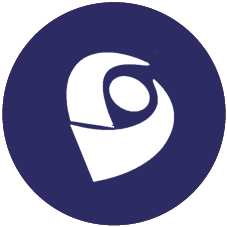
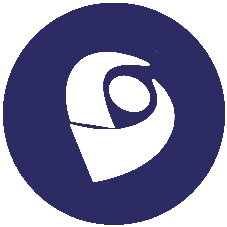
several modifications

diff --git a/publications.html b/publications.html
@@ -17,10 +17,11 @@
 
 	<p style="margin-top:40px;"> Links: </p>
         <p>
-          <a href="https://orcid.org/0000-0001-5687-8603"><img src="/assets/images/orcid.jpg" alt="orcid icon" style="width:30px;height:30px;border:5;"></a> 
-	  <a href="https://scholar.google.com/citations?user=kIUsR28AAAAJ&hl=pt-BR"><img src="/assets/images/googleacademico.png" alt="google academico icon" style="width:30px;height:30px;border:5;"></a>
-  	  <a href="http://lattes.cnpq.br/6336353192848542"><img src="/assets/images/lattes.png" alt="lattes icon" style="width:30px;height:30px;border:5;"></a>
-          <a href="https://publons.com/researcher/3260975/johnatan-mucelini/"><img src="/assets/images/publons.png" alt="publons icon" style="width:30px;height:30px;border:5;"></a>
+          <a href="https://orcid.org/0000-0001-5687-8603"><img src="/assets/images/orcid_bw.png" alt="orcid icon" style="width:30px;height:30px;border:5;"></a> 
+	  <a href="https://scholar.google.com/citations?user=kIUsR28AAAAJ&hl=pt-BR"><img src="/assets/images/googleacademico_bw.png" alt="google academico icon" style="width:30px;height:30px;border:5;"></a>
+  	  <a href="http://lattes.cnpq.br/6336353192848542"><img src="/assets/images/lattes_bw.png" alt="lattes icon" style="width:30px;height:30px;border:5;"></a>
+          <a href="https://publons.com/researcher/3260975/johnatan-mucelini/"><img src="/assets/images/publons_bw.png" alt="publons icon" style="width:30px;height:30px;border:5;"></a>
+	  <a href="https://github.com/johnatanmucelini"><img src="/assets/images/github_bw.png" alt="github icon" style="width:30px;height:30px;border:5;"></a>
         </p>
       </div>
       <div class="right">
@@ -32,23 +33,30 @@
   
     <a href="/researches.html" class="title">Researches</a> &nbsp &nbsp
   
-    <a href="/cv.html" class="title">CV (pdf)</a> &nbsp &nbsp
+    <a href="/cv.html" class="title">CV</a> &nbsp &nbsp
   
-    <a href="/MyRenderings.html" class="title">My Renderings</a> &nbsp &nbsp
+    <a href="/MyRenderings.html" class="title">Renderings</a> &nbsp &nbsp
+  
+    <a href="/codes.html" class="title">Codes</a> &nbsp &nbsp
   
 </nav>
 
         <h2> Publications </h2>
 
-<!--<ul style="list-style-type:disc;">-->
 <ul>
-	<li> Machine Learning Prediction of Nine Molecular Properties Based on the SMILES Representation of the QM9 Quantum-Chemistry Dataset. <em>The Journal of Physical Chemistry A</em>, <strong>2020</strong>, 124(47), 9854-9866. DOI: <a href="https://doi.org/10.1021/acs.jpca.0c05969">10.1021/acs.jpca.0c05969</a> </li>
+	<li> Correlation-Based Framework for Extraction of Insights from Quantum Chemistry Databases: Applications for Nanoclusters. <em>Journal of Chemical Information and Modeling</em>, <strong>2021</strong>, 61 (3), 1125-1135. DOI: <a href="https://doi.org/10.1021/acs.jcim.0c01267">10.1021/acs.jcim.0c01267</a> </li>
+
+	<li> Machine Learning Prediction of Nine Molecular Properties Based on the SMILES Representation of the QM9 Quantum-Chemistry Dataset. <em>The Journal of Physical Chemistry A</em>, <strong>2020</strong>, 124 (47), 9854-9866. DOI: <a href="https://doi.org/10.1021/acs.jpca.0c05969">10.1021/acs.jpca.0c05969</a> </li>
+
 	<li> Methane dehydrogenation on 3<em>d</em> 13-atom transition-metal clusters: A density functional theory investigation combined with Spearman rank correlation analysis. <em>Fuel</em>, <strong>2020</strong>, 275, 117790. DOI: <a href="https://doi.org/10.1016/j.fuel.2020.117790">10.1016/j.fuel.2020.117790</a> </li>
+
 	<li> Ab Initio Insights Into the Formation Mechanisms of 55-Atom Pt-Based Core-Shell Nanoalloys. <em>The Journal of Physical Chemistry</em>, <strong>2020</strong>, 124, 1, 1158-1164. DOI: <a href="https://doi.org/10.1021/acs.jpcc.9b09561">10.1021/acs.jpcc.9b09561</a> </li>
-	<!--<p> Co-author -- I contributed to this work with two key points. First, employing a <strong>Data Mining</strong> procedure, which I developed, that statistically showed the main features that drive PtTM nanoalloys stability with clear trends. Second, I helped build up the explanations of those features trends base on intuitive properties of the atoms in the alloy, such as the atomic radii, surface energy, and electronegativity.</p>-->
+
+<!--<p> Co-author -- I contributed to this work with two key points. First, employing a <strong>Data Mining</strong> procedure, which I developed, that statistically showed the main features that drive PtTM nanoalloys stability with clear trends. Second, I helped build up the explanations of those features trends base on intuitive properties of the atoms in the alloy, such as the atomic radii, surface energy, and electronegativity.</p>-->
 
 	<li> Ab initio insights into the structural, energetic, electronic, and stability properties of mixed Ce<sub>n</sub>Zr<sub>15-n</sub>O<sub>30</sub> nanoclusters, <em>Physical Chemistry Chemical Physics</em>, <strong>2019</strong>, 21, 26637-26646. DOI: <a href="http://dx.doi.org/10.1039/C9CP04762J">10.1039/C9CP04762J</a> </li>
-	<!--<p> Co-author -- My main contribution in this work were a <strong>Data Mining</strong> analysis, which I developed. That analysis make clear that the main important feature that stabilize this nanocluster is the presence of Zr atom less exposed to the surface.</p>-->
+
+<!--<p> Co-author -- My main contribution in this work were a <strong>Data Mining</strong> analysis, which I developed. That analysis make clear that the main important feature that stabilize this nanocluster is the presence of Zr atom less exposed to the surface.</p>-->
 
 	<li> Understanding the interplay between π-π and cation-π interactions in [janusene-Ag]<sup>+</sup> host-guest systems: a computational approach, <em>Dalton Transactions</em>, <strong>2019</strong>, 48, 13281-13292. DOI: <a href="http://dx.doi.org/10.1039/C9DT02307K">10.1039/C9DT02307K</a> </li>
 
@@ -56,7 +64,7 @@
 
 	<li> From Bulk CeO<sub>2</sub> to Transition-Metal Clusters Supported on the CeO<sub>2</sub>(111) Surface: A Critical Discussion. In book: <em>Encyclopedia of Interfacial Chemistry, Surface Science and Electrochemistry</em>, <strong>2018</strong>, 452-459. DOI: <a href="https://doi.org/10.1016/B978-0-12-409547-2.14196-4">10.1016/B978-0-12-409547-2.14196-4</a> </li>
 
-<ul>
+</ul>
 
 
       </div>

diff --git a/researches.html b/researches.html
@@ -17,10 +17,11 @@
 
 	<p style="margin-top:40px;"> Links: </p>
         <p>
-          <a href="https://orcid.org/0000-0001-5687-8603"><img src="/assets/images/orcid.jpg" alt="orcid icon" style="width:30px;height:30px;border:5;"></a> 
-	  <a href="https://scholar.google.com/citations?user=kIUsR28AAAAJ&hl=pt-BR"><img src="/assets/images/googleacademico.png" alt="google academico icon" style="width:30px;height:30px;border:5;"></a>
-  	  <a href="http://lattes.cnpq.br/6336353192848542"><img src="/assets/images/lattes.png" alt="lattes icon" style="width:30px;height:30px;border:5;"></a>
-          <a href="https://publons.com/researcher/3260975/johnatan-mucelini/"><img src="/assets/images/publons.png" alt="publons icon" style="width:30px;height:30px;border:5;"></a>
+          <a href="https://orcid.org/0000-0001-5687-8603"><img src="/assets/images/orcid_bw.png" alt="orcid icon" style="width:30px;height:30px;border:5;"></a> 
+	  <a href="https://scholar.google.com/citations?user=kIUsR28AAAAJ&hl=pt-BR"><img src="/assets/images/googleacademico_bw.png" alt="google academico icon" style="width:30px;height:30px;border:5;"></a>
+  	  <a href="http://lattes.cnpq.br/6336353192848542"><img src="/assets/images/lattes_bw.png" alt="lattes icon" style="width:30px;height:30px;border:5;"></a>
+          <a href="https://publons.com/researcher/3260975/johnatan-mucelini/"><img src="/assets/images/publons_bw.png" alt="publons icon" style="width:30px;height:30px;border:5;"></a>
+	  <a href="https://github.com/johnatanmucelini"><img src="/assets/images/github_bw.png" alt="github icon" style="width:30px;height:30px;border:5;"></a>
         </p>
       </div>
       <div class="right">
@@ -32,9 +33,11 @@
   
     <a href="/researches.html" class="title">Researches</a> &nbsp &nbsp
   
-    <a href="/cv.html" class="title">CV (pdf)</a> &nbsp &nbsp
+    <a href="/cv.html" class="title">CV</a> &nbsp &nbsp
   
-    <a href="/MyRenderings.html" class="title">My Renderings</a> &nbsp &nbsp
+    <a href="/MyRenderings.html" class="title">Renderings</a> &nbsp &nbsp
+  
+    <a href="/codes.html" class="title">Codes</a> &nbsp &nbsp
   
 </nav>
 
@@ -43,13 +46,16 @@
 <p> Now I am working in three researches lines. Below I have described each of them: </p>
 
 <ul>
-  <li> I am developing a Data Mining framework (python implementation) that allows the user to deeply analyze the relationship between the atomic environment and some property of interest, such as the cohesive energy (related to stability) and the band bag (important optical property). An important point of this methodology is that it describes the atomic systems in terms of physical meaningful features. This work was employed in three papers until now (<a href="https://doi.org/10.1021/acs.jpcc.9b09561">10.1021/acs.jpcc.9b09561</a>, <a href="http://dx.doi.org/10.1039/C9CP04762J">10.1039/C9CP04762J</a>, and <a href="https://doi.org/10.1016/j.fuel.2020.117790">10.1016/j.fuel.2020.117790</a>). Right now, we are writing a paper that will address this methodology in more detail.
+	<li> 
+		I am developing a <em>data mining framework</em> (a python module called <a href="https://github.com/johnatanmucelini/quandarium">quandarium</a>) that allows the user to deeply analyze the relationship between the atomic environment and some property of interest, such as the cohesive energy (related to stability) and the band bag (important optical property). An important point of this methodology is that it describes the atomic systems in terms of physical meaningful features. This work was employed in three papers until now (<a href="https://doi.org/10.1021/acs.jpcc.9b09561">10.1021/acs.jpcc.9b09561</a>, <a href="http://dx.doi.org/10.1039/C9CP04762J">10.1039/C9CP04762J</a>, and <a href="https://doi.org/10.1016/j.fuel.2020.117790">10.1016/j.fuel.2020.117790</a>). I addressed the methodology in detail in <a href="https://doi.org/10.1021/acs.jcim.0c01267">this article</a>: 
+		<p> 
+			<a href="https://doi.org/10.1021/acs.jcim.0c01267"><img src="/assets/images/data_minig_paper.png" alt="data_minig_paper" style="width:600px;height:514;"></a> 
+		</p>
+	</li>
 
-  <p> <iframe width="493" height="277" src="https://www.youtube.com/embed/-W0eadx0Z08" frameborder="0" allow="accelerometer; autoplay; encrypted-media; gyroscope; picture-in-picture" allowfullscreen></iframe> </p> </li>
-
-  <li> I am collaborating with two Machine Learning (ML) experts (<a href="https://scholar.google.com/citations?user=lZ0ASREAAAAJ&hl=en">Prof. Dr. Ronaldo C. Prati</a> and <a href="https://scholar.google.com/citations?user=kQXxkc4AAAAJ&hl=en">Prof. Dr. Marcos G. Quiles</a>) in two projects related to applications of ML algorithms in quantum chemistry datasets: “Machine learning prediction of nine molecular properties based on the SMILES representation of the QM9 dataset” and “Quantifying the bias-variance decomposition in materials science data set”. </li>
-
-  <li> I am co-supervising the Undergraduate Student in Chemistry Mariana Candido Gallego (Supervised by Prof. Dr. Juarez Lopes Ferreira Da Silva in the São Carlos Institute of Chemistry - University of São Paulo) in her scientific initiation program. She is performing an investigation of the structural, energetic, and optical properties of ABX 3 perovskites for solar cell applications, employ first-principles calculations. </li>
+	<li> 
+		I am also working on a large theoretical investigation of <em>transition metal nanoclusters</em>, where I will seek the relationship between TM element, charge, and size of the clusters and their properties.
+	</li>
 </ul>
 
 

diff --git a/codes.html b/codes.html
@@ -1,0 +1,92 @@
+<!doctype html>
+<html>
+  <head>
+    <meta charset="utf-8">
+    <meta name="viewport" content="width=device-width, initial-scale=1.0">
+
+    <title>Codes</title>
+    <link rel="stylesheet" href="/assets/css/styles.css">
+  </head>
+  <body>
+    <div class="split">
+      <div class="left">
+        <img src="/assets/images/me.jpg" alt="Me" width="180">
+        <p>Johnatan Mucelini</p>
+	<p>PhD student in </p>
+	<p><a href="https://www.facebook.com/QTNano/">QTNano group</a></p>
+
+	<p style="margin-top:40px;"> Links: </p>
+        <p>
+          <a href="https://orcid.org/0000-0001-5687-8603"><img src="/assets/images/orcid_bw.png" alt="orcid icon" style="width:30px;height:30px;border:5;"></a> 
+	  <a href="https://scholar.google.com/citations?user=kIUsR28AAAAJ&hl=pt-BR"><img src="/assets/images/googleacademico_bw.png" alt="google academico icon" style="width:30px;height:30px;border:5;"></a>
+  	  <a href="http://lattes.cnpq.br/6336353192848542"><img src="/assets/images/lattes_bw.png" alt="lattes icon" style="width:30px;height:30px;border:5;"></a>
+          <a href="https://publons.com/researcher/3260975/johnatan-mucelini/"><img src="/assets/images/publons_bw.png" alt="publons icon" style="width:30px;height:30px;border:5;"></a>
+	  <a href="https://github.com/johnatanmucelini"><img src="/assets/images/github_bw.png" alt="github icon" style="width:30px;height:30px;border:5;"></a>
+        </p>
+      </div>
+      <div class="right">
+        <nav style="margin: 20px 0 0 ;padding: 10px 0;" >
+  
+    <a href="/" class="title">Johnatan</a> &nbsp &nbsp
+  
+    <a href="/publications.html" class="title">Publications</a> &nbsp &nbsp
+  
+    <a href="/researches.html" class="title">Researches</a> &nbsp &nbsp
+  
+    <a href="/cv.html" class="title">CV</a> &nbsp &nbsp
+  
+    <a href="/MyRenderings.html" class="title">Renderings</a> &nbsp &nbsp
+  
+    <a href="/codes.html" class="title">Codes</a> &nbsp &nbsp
+  
+</nav>
+
+        <h2> Codes </h2>
+
+<p> Some codes that I developed: </p>
+
+<ul>
+	<li> 
+		<h3>Surface Atoms Analysis</h3>
+
+		<p><a href="https://github.com/johnatanmucelini/Surface-Atoms-Analysis">This pytho script</a> analyzes which atoms of a molecule (in xyz file, for instance) are exposed to the vacuum and is exposed area.</p>
+
+		<p><a href="https://github.com/johnatanmucelini/Surface-Atoms-Analysis"><img src="https://raw.githubusercontent.com/johnatanmucelini/surface_analysis_standalone/master/figure.png?token=AF3ZDJ3EMVHYIY3HY4G5773AQCTUS" alt="surface_analysis" style="width:600px;height:514;"></a></p>
+                
+		<p> The atoms exposed to the vacuum could be considered <em>surface atoms</em> and often play important roles in the physical-chemical properties of small clusters/nanoclusters/nanostructures. I strongly recomend this analysis for the investigations of structures with more than 20 atoms. </p>
+
+		<p> For a detailed description of the methodology, I suggest the Section V of <a href="https://pubs.acs.org/doi/suppl/10.1021/acs.jpcc.9b09561/suppl_file/jp9b09561_si_001.pdf">this document</a>.</p>
+	</li>
+
+	<li> 
+		<h3> Effective Coordination Number </h3>
+
+		<p><a href="https://github.com/johnatanmucelini/Effective-Coordination-Number">This python script</a> calculates the effective coordination number and average bond distance from almost any atomic structure file type. It work with any atomic structuresfile readble by ase.io.read(), including structures with periodic boundary conditions.</p>
+
+		<p>See more in <a href="https://doi.org/10.1063/1.3533422">this reference</a>.</p>
+
+
+	</li>
+
+	<li> 
+		<h3> Quandarium </h3>
+
+		<p> A python package that present several tools to deal with Quantum Chemistry (QC) data of molecular systems (non-periodic):</p>
+
+		<ul>
+			<li> Extraction of data from QC calculations;</li>
+                        <li> Structural analysis, such as effective coordination bonds and surface atoms analysis (see below);</li>
+                        <li> AtoMF (Atomic to Molecular Featurization) (see more);</li>
+                        <li> Correlation and correlation significance analysis with bootstrap approaches.</li>
+		</ul>
+
+		<p> <a href="https://github.com/johnatanmucelini/Quandarium">The version presented here</a> is an old version of quandarium. I am developing the 1.0.0 version and I will release it soon together with more information about quandarium.</p>
+
+	</li>
+</ul>
+
+
+      </div>
+    </div>
+  </body>
+</html>

diff --git a/cv.html b/cv.html
@@ -17,10 +17,11 @@
 
 	<p style="margin-top:40px;"> Links: </p>
         <p>
-          <a href="https://orcid.org/0000-0001-5687-8603"><img src="/assets/images/orcid.jpg" alt="orcid icon" style="width:30px;height:30px;border:5;"></a> 
-	  <a href="https://scholar.google.com/citations?user=kIUsR28AAAAJ&hl=pt-BR"><img src="/assets/images/googleacademico.png" alt="google academico icon" style="width:30px;height:30px;border:5;"></a>
-  	  <a href="http://lattes.cnpq.br/6336353192848542"><img src="/assets/images/lattes.png" alt="lattes icon" style="width:30px;height:30px;border:5;"></a>
-          <a href="https://publons.com/researcher/3260975/johnatan-mucelini/"><img src="/assets/images/publons.png" alt="publons icon" style="width:30px;height:30px;border:5;"></a>
+          <a href="https://orcid.org/0000-0001-5687-8603"><img src="/assets/images/orcid_bw.png" alt="orcid icon" style="width:30px;height:30px;border:5;"></a> 
+	  <a href="https://scholar.google.com/citations?user=kIUsR28AAAAJ&hl=pt-BR"><img src="/assets/images/googleacademico_bw.png" alt="google academico icon" style="width:30px;height:30px;border:5;"></a>
+  	  <a href="http://lattes.cnpq.br/6336353192848542"><img src="/assets/images/lattes_bw.png" alt="lattes icon" style="width:30px;height:30px;border:5;"></a>
+          <a href="https://publons.com/researcher/3260975/johnatan-mucelini/"><img src="/assets/images/publons_bw.png" alt="publons icon" style="width:30px;height:30px;border:5;"></a>
+	  <a href="https://github.com/johnatanmucelini"><img src="/assets/images/github_bw.png" alt="github icon" style="width:30px;height:30px;border:5;"></a>
         </p>
       </div>
       <div class="right">
@@ -32,9 +33,11 @@
   
     <a href="/researches.html" class="title">Researches</a> &nbsp &nbsp
   
-    <a href="/cv.html" class="title">CV (pdf)</a> &nbsp &nbsp
+    <a href="/cv.html" class="title">CV</a> &nbsp &nbsp
   
-    <a href="/MyRenderings.html" class="title">My Renderings</a> &nbsp &nbsp
+    <a href="/MyRenderings.html" class="title">Renderings</a> &nbsp &nbsp
+  
+    <a href="/codes.html" class="title">Codes</a> &nbsp &nbsp
   
 </nav>
 
@@ -45,6 +48,7 @@
 <a href="/assets/images/cv_2020_03_09.pdf" download="johnatan_mucelini_cv">
   Link to Download
 </a> 
+(March 2020)
 
 
       </div>

diff --git a/2019/11/29/ECN.html b/2019/11/29/ECN.html
@@ -17,10 +17,11 @@
 
 	<p style="margin-top:40px;"> Links: </p>
         <p>
-          <a href="https://orcid.org/0000-0001-5687-8603"><img src="/assets/images/orcid.jpg" alt="orcid icon" style="width:30px;height:30px;border:5;"></a> 
-	  <a href="https://scholar.google.com/citations?user=kIUsR28AAAAJ&hl=pt-BR"><img src="/assets/images/googleacademico.png" alt="google academico icon" style="width:30px;height:30px;border:5;"></a>
-  	  <a href="http://lattes.cnpq.br/6336353192848542"><img src="/assets/images/lattes.png" alt="lattes icon" style="width:30px;height:30px;border:5;"></a>
-          <a href="https://publons.com/researcher/3260975/johnatan-mucelini/"><img src="/assets/images/publons.png" alt="publons icon" style="width:30px;height:30px;border:5;"></a>
+          <a href="https://orcid.org/0000-0001-5687-8603"><img src="/assets/images/orcid_bw.png" alt="orcid icon" style="width:30px;height:30px;border:5;"></a> 
+	  <a href="https://scholar.google.com/citations?user=kIUsR28AAAAJ&hl=pt-BR"><img src="/assets/images/googleacademico_bw.png" alt="google academico icon" style="width:30px;height:30px;border:5;"></a>
+  	  <a href="http://lattes.cnpq.br/6336353192848542"><img src="/assets/images/lattes_bw.png" alt="lattes icon" style="width:30px;height:30px;border:5;"></a>
+          <a href="https://publons.com/researcher/3260975/johnatan-mucelini/"><img src="/assets/images/publons_bw.png" alt="publons icon" style="width:30px;height:30px;border:5;"></a>
+	  <a href="https://github.com/johnatanmucelini"><img src="/assets/images/github_bw.png" alt="github icon" style="width:30px;height:30px;border:5;"></a>
         </p>
       </div>
       <div class="right">
@@ -32,9 +33,11 @@
   
     <a href="/researches.html" class="title">Researches</a> &nbsp &nbsp
   
-    <a href="/cv.html" class="title">CV (pdf)</a> &nbsp &nbsp
+    <a href="/cv.html" class="title">CV</a> &nbsp &nbsp
   
-    <a href="/MyRenderings.html" class="title">My Renderings</a> &nbsp &nbsp
+    <a href="/MyRenderings.html" class="title">Renderings</a> &nbsp &nbsp
+  
+    <a href="/codes.html" class="title">Codes</a> &nbsp &nbsp
   
 </nav>
 

diff --git a/MyRenderings.html b/MyRenderings.html
@@ -17,10 +17,11 @@
 
 	<p style="margin-top:40px;"> Links: </p>
         <p>
-          <a href="https://orcid.org/0000-0001-5687-8603"><img src="/assets/images/orcid.jpg" alt="orcid icon" style="width:30px;height:30px;border:5;"></a> 
-	  <a href="https://scholar.google.com/citations?user=kIUsR28AAAAJ&hl=pt-BR"><img src="/assets/images/googleacademico.png" alt="google academico icon" style="width:30px;height:30px;border:5;"></a>
-  	  <a href="http://lattes.cnpq.br/6336353192848542"><img src="/assets/images/lattes.png" alt="lattes icon" style="width:30px;height:30px;border:5;"></a>
-          <a href="https://publons.com/researcher/3260975/johnatan-mucelini/"><img src="/assets/images/publons.png" alt="publons icon" style="width:30px;height:30px;border:5;"></a>
+          <a href="https://orcid.org/0000-0001-5687-8603"><img src="/assets/images/orcid_bw.png" alt="orcid icon" style="width:30px;height:30px;border:5;"></a> 
+	  <a href="https://scholar.google.com/citations?user=kIUsR28AAAAJ&hl=pt-BR"><img src="/assets/images/googleacademico_bw.png" alt="google academico icon" style="width:30px;height:30px;border:5;"></a>
+  	  <a href="http://lattes.cnpq.br/6336353192848542"><img src="/assets/images/lattes_bw.png" alt="lattes icon" style="width:30px;height:30px;border:5;"></a>
+          <a href="https://publons.com/researcher/3260975/johnatan-mucelini/"><img src="/assets/images/publons_bw.png" alt="publons icon" style="width:30px;height:30px;border:5;"></a>
+	  <a href="https://github.com/johnatanmucelini"><img src="/assets/images/github_bw.png" alt="github icon" style="width:30px;height:30px;border:5;"></a>
         </p>
       </div>
       <div class="right">
@@ -32,9 +33,11 @@
   
     <a href="/researches.html" class="title">Researches</a> &nbsp &nbsp
   
-    <a href="/cv.html" class="title">CV (pdf)</a> &nbsp &nbsp
+    <a href="/cv.html" class="title">CV</a> &nbsp &nbsp
   
-    <a href="/MyRenderings.html" class="title">My Renderings</a> &nbsp &nbsp
+    <a href="/MyRenderings.html" class="title">Renderings</a> &nbsp &nbsp
+  
+    <a href="/codes.html" class="title">Codes</a> &nbsp &nbsp
   
 </nav>
 

diff --git a/blog.html b/blog.html
@@ -17,10 +17,11 @@
 
 	<p style="margin-top:40px;"> Links: </p>
         <p>
-          <a href="https://orcid.org/0000-0001-5687-8603"><img src="/assets/images/orcid.jpg" alt="orcid icon" style="width:30px;height:30px;border:5;"></a> 
-	  <a href="https://scholar.google.com/citations?user=kIUsR28AAAAJ&hl=pt-BR"><img src="/assets/images/googleacademico.png" alt="google academico icon" style="width:30px;height:30px;border:5;"></a>
-  	  <a href="http://lattes.cnpq.br/6336353192848542"><img src="/assets/images/lattes.png" alt="lattes icon" style="width:30px;height:30px;border:5;"></a>
-          <a href="https://publons.com/researcher/3260975/johnatan-mucelini/"><img src="/assets/images/publons.png" alt="publons icon" style="width:30px;height:30px;border:5;"></a>
+          <a href="https://orcid.org/0000-0001-5687-8603"><img src="/assets/images/orcid_bw.png" alt="orcid icon" style="width:30px;height:30px;border:5;"></a> 
+	  <a href="https://scholar.google.com/citations?user=kIUsR28AAAAJ&hl=pt-BR"><img src="/assets/images/googleacademico_bw.png" alt="google academico icon" style="width:30px;height:30px;border:5;"></a>
+  	  <a href="http://lattes.cnpq.br/6336353192848542"><img src="/assets/images/lattes_bw.png" alt="lattes icon" style="width:30px;height:30px;border:5;"></a>
+          <a href="https://publons.com/researcher/3260975/johnatan-mucelini/"><img src="/assets/images/publons_bw.png" alt="publons icon" style="width:30px;height:30px;border:5;"></a>
+	  <a href="https://github.com/johnatanmucelini"><img src="/assets/images/github_bw.png" alt="github icon" style="width:30px;height:30px;border:5;"></a>
         </p>
       </div>
       <div class="right">
@@ -32,9 +33,11 @@
   
     <a href="/researches.html" class="title">Researches</a> &nbsp &nbsp
   
-    <a href="/cv.html" class="title">CV (pdf)</a> &nbsp &nbsp
+    <a href="/cv.html" class="title">CV</a> &nbsp &nbsp
   
-    <a href="/MyRenderings.html" class="title">My Renderings</a> &nbsp &nbsp
+    <a href="/MyRenderings.html" class="title">Renderings</a> &nbsp &nbsp
+  
+    <a href="/codes.html" class="title">Codes</a> &nbsp &nbsp
   
 </nav>
 

diff --git a/index.html b/index.html
@@ -17,10 +17,11 @@
 
 	<p style="margin-top:40px;"> Links: </p>
         <p>
-          <a href="https://orcid.org/0000-0001-5687-8603"><img src="/assets/images/orcid.jpg" alt="orcid icon" style="width:30px;height:30px;border:5;"></a> 
-	  <a href="https://scholar.google.com/citations?user=kIUsR28AAAAJ&hl=pt-BR"><img src="/assets/images/googleacademico.png" alt="google academico icon" style="width:30px;height:30px;border:5;"></a>
-  	  <a href="http://lattes.cnpq.br/6336353192848542"><img src="/assets/images/lattes.png" alt="lattes icon" style="width:30px;height:30px;border:5;"></a>
-          <a href="https://publons.com/researcher/3260975/johnatan-mucelini/"><img src="/assets/images/publons.png" alt="publons icon" style="width:30px;height:30px;border:5;"></a>
+          <a href="https://orcid.org/0000-0001-5687-8603"><img src="/assets/images/orcid_bw.png" alt="orcid icon" style="width:30px;height:30px;border:5;"></a> 
+	  <a href="https://scholar.google.com/citations?user=kIUsR28AAAAJ&hl=pt-BR"><img src="/assets/images/googleacademico_bw.png" alt="google academico icon" style="width:30px;height:30px;border:5;"></a>
+  	  <a href="http://lattes.cnpq.br/6336353192848542"><img src="/assets/images/lattes_bw.png" alt="lattes icon" style="width:30px;height:30px;border:5;"></a>
+          <a href="https://publons.com/researcher/3260975/johnatan-mucelini/"><img src="/assets/images/publons_bw.png" alt="publons icon" style="width:30px;height:30px;border:5;"></a>
+	  <a href="https://github.com/johnatanmucelini"><img src="/assets/images/github_bw.png" alt="github icon" style="width:30px;height:30px;border:5;"></a>
         </p>
       </div>
       <div class="right">
@@ -32,9 +33,11 @@
   
     <a href="/researches.html" class="title">Researches</a> &nbsp &nbsp
   
-    <a href="/cv.html" class="title">CV (pdf)</a> &nbsp &nbsp
+    <a href="/cv.html" class="title">CV</a> &nbsp &nbsp
   
-    <a href="/MyRenderings.html" class="title">My Renderings</a> &nbsp &nbsp
+    <a href="/MyRenderings.html" class="title">Renderings</a> &nbsp &nbsp
+  
+    <a href="/codes.html" class="title">Codes</a> &nbsp &nbsp
   
 </nav>
 
